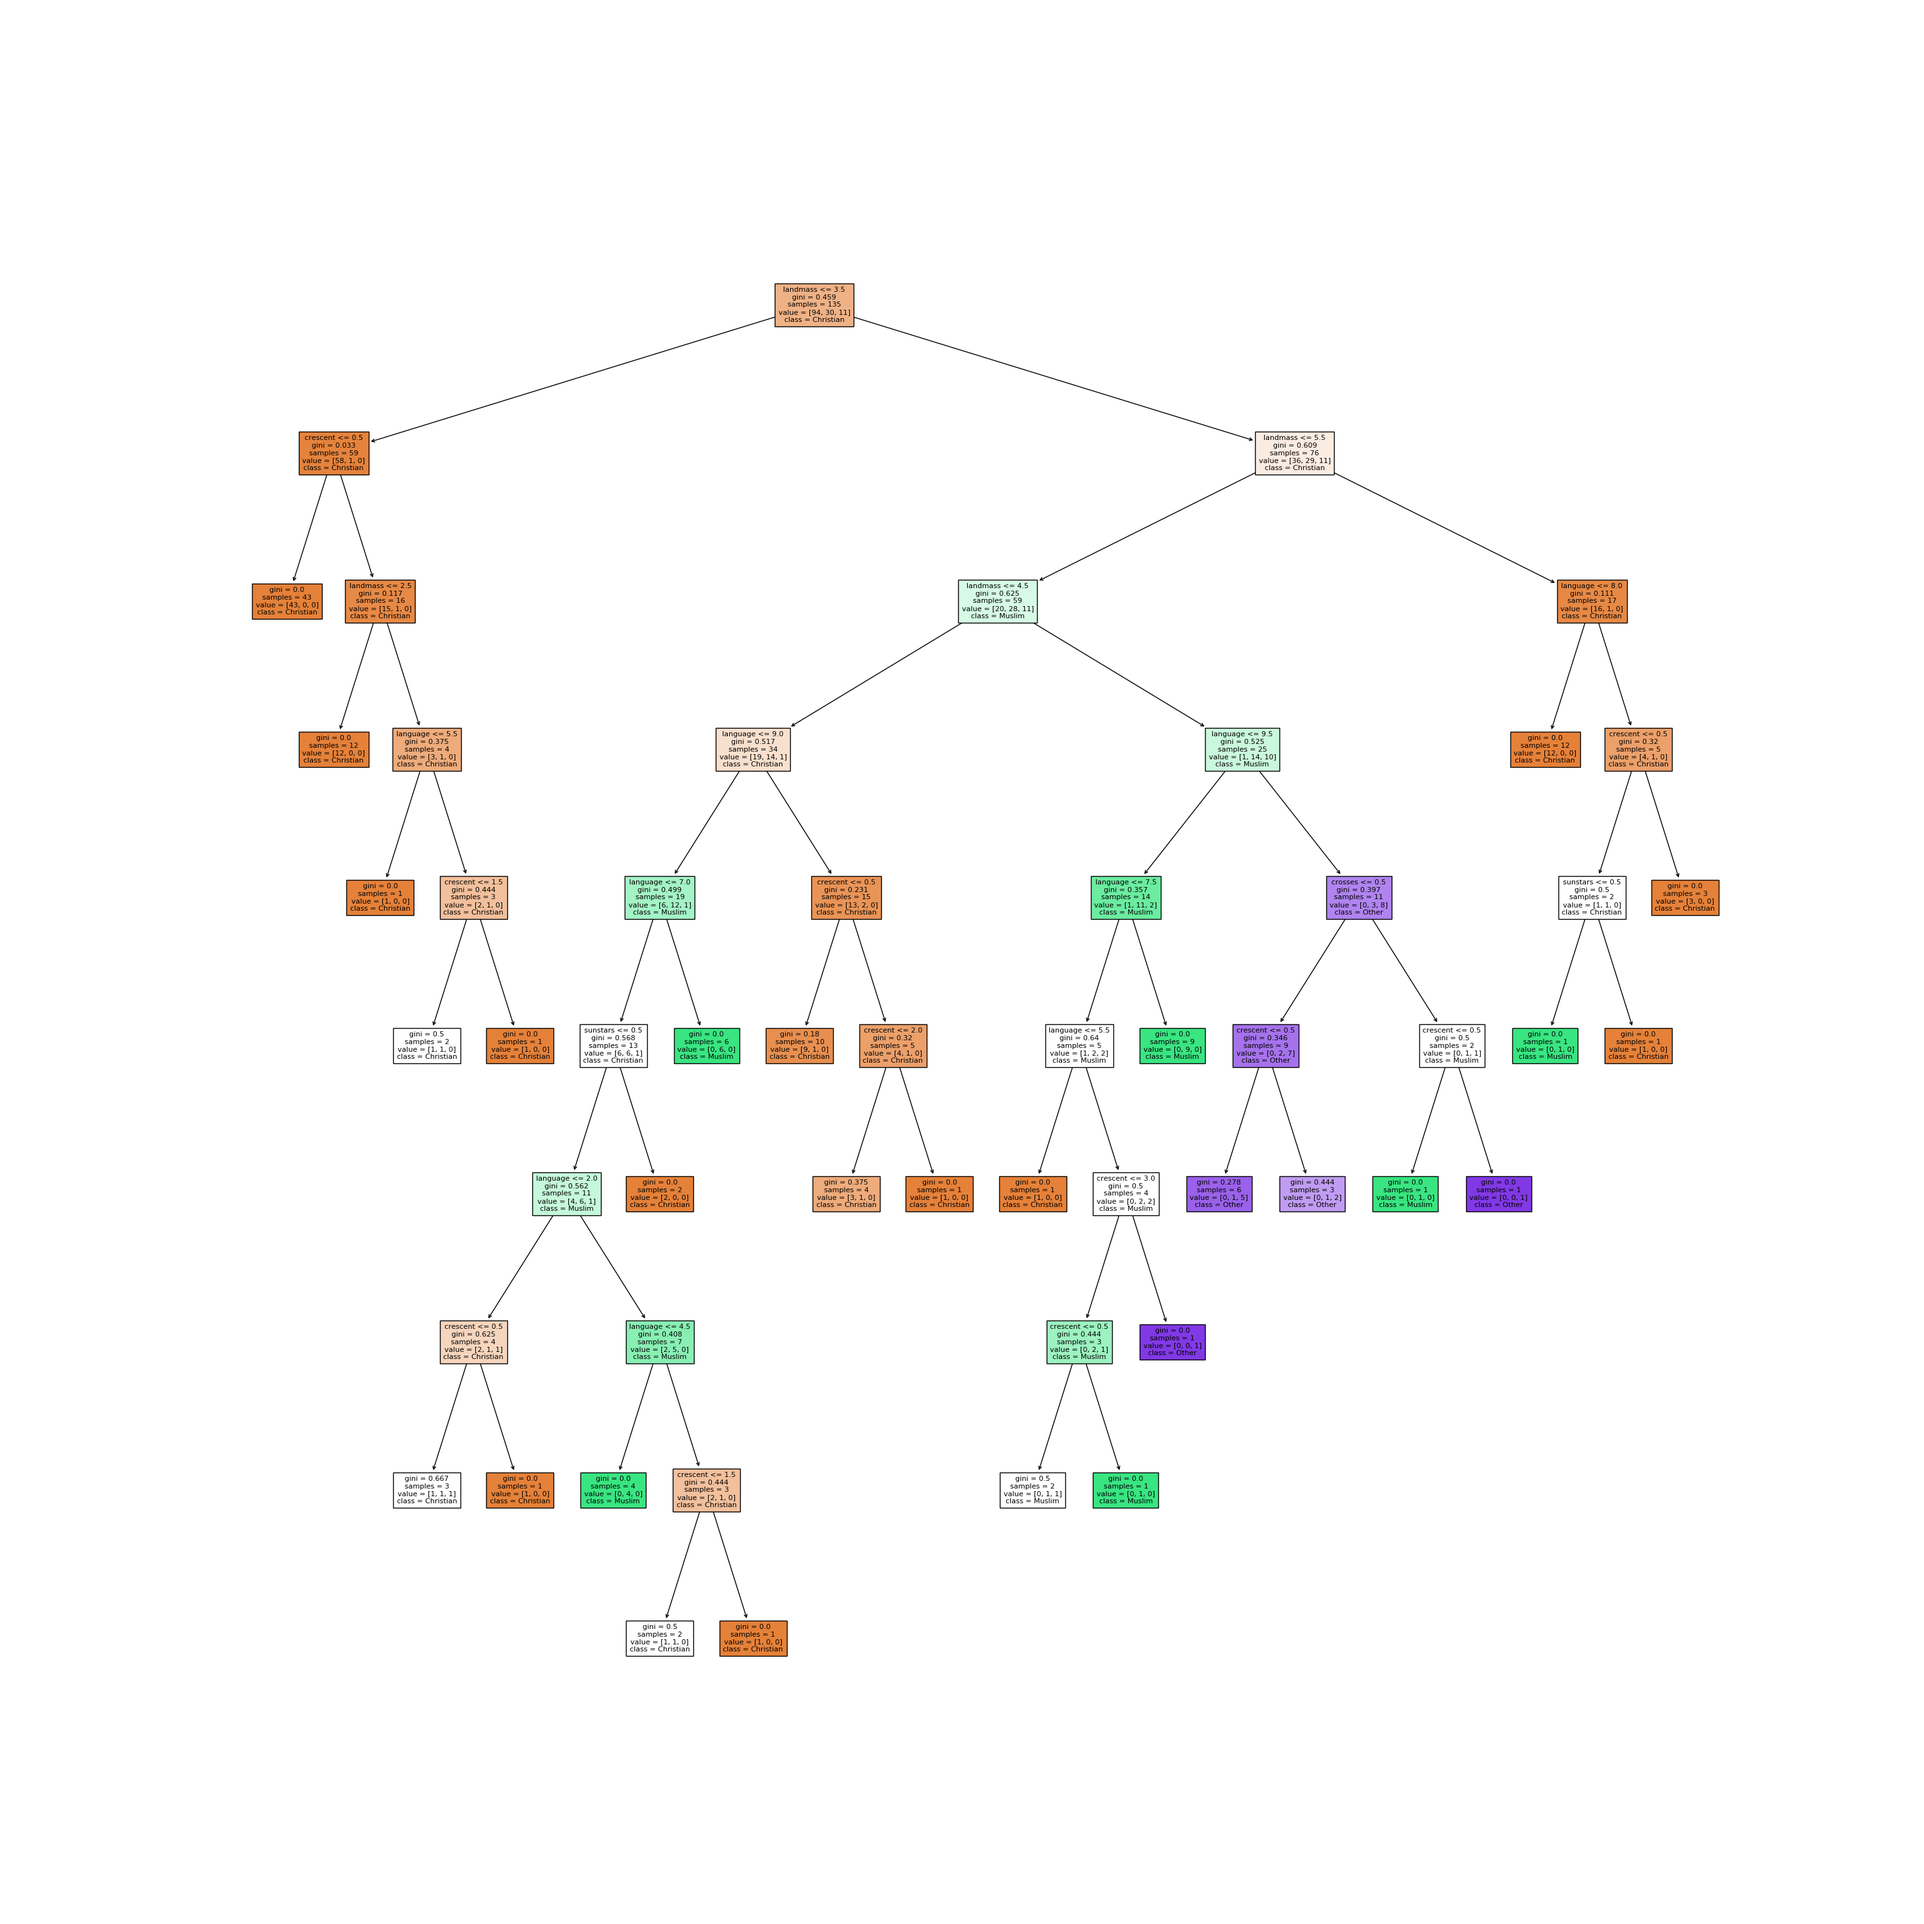
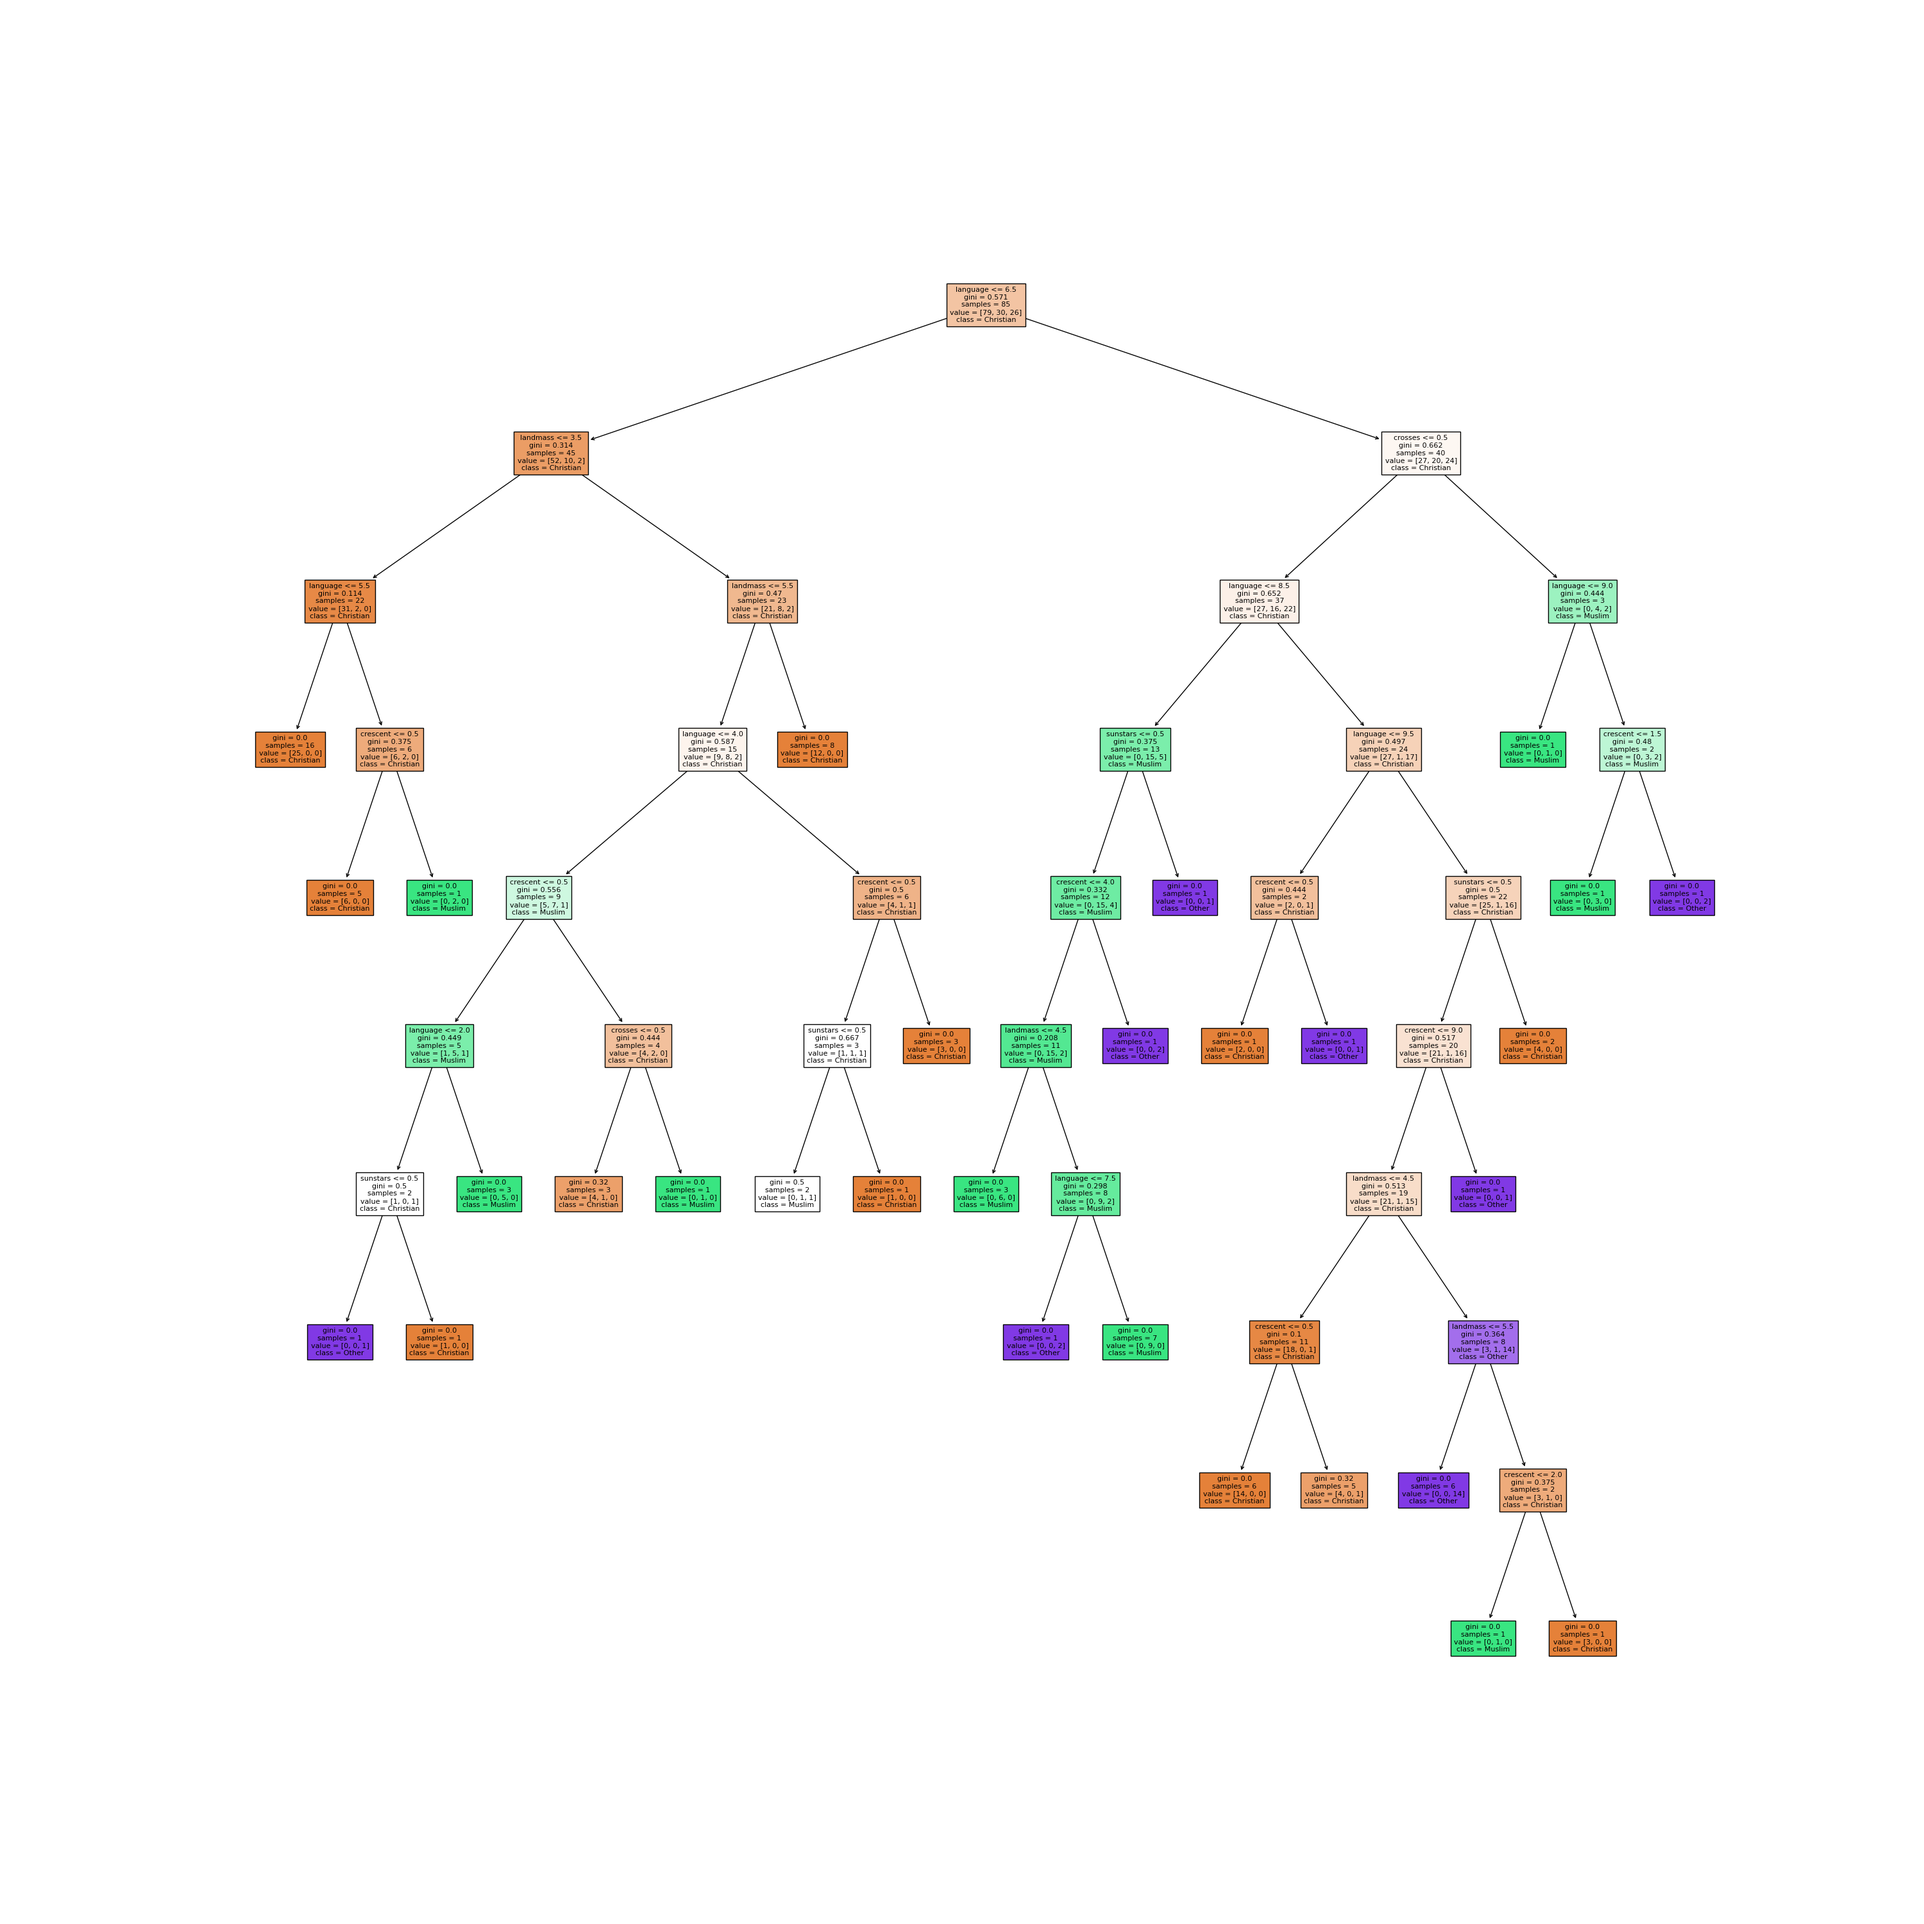
Random Forests
-Updated decision tree code to work with random forests

diff --git a/ReligionByFlag_DecisionTree.py b/ReligionByFlag_DecisionTree.py
@@ -3,6 +3,7 @@ import numpy as np
 import pandas as pd
 import matplotlib.pyplot as plt
 from sklearn import tree
+from sklearn.ensemble import RandomForestClassifier
 from sklearn.metrics import accuracy_score
 from sklearn.model_selection import train_test_split
 
@@ -18,7 +19,7 @@ countries = data['name'].values
 x_train, x_test, y_train, y_test, countries_train, countries_test = train_test_split(x, y, countries, test_size=.3)
 
 # Create decision tree classifier
-classifier = tree.DecisionTreeClassifier()
+classifier = RandomForestClassifier(n_estimators=100)
 classifier.fit(x_train, y_train)
 y_prediction = classifier.predict(x_test)
 features_arr = ['landmass', 'language', 'crosses', 'sunstars', 'crescent']
@@ -48,7 +49,7 @@ print(results_array, '\n')
 print('The Decision Tree predicted', y_correct, 'out of', y_total, 'correctly, meaning the accuracy is:', accuracy)
 
 # Plot decision tree graph (too large to display)
-tree.plot_tree(classifier, feature_names=features_arr, class_names=classes_arr, filled=True, fontsize=8, ax=ax)
+tree.plot_tree(classifier.estimators_[0], feature_names=features_arr, class_names=classes_arr, filled=True, fontsize=8, ax=ax)
 
 # Save tree as png to view decision tree (zoom in)
 plt.savefig('religion_decision_tree', dpi=100)
